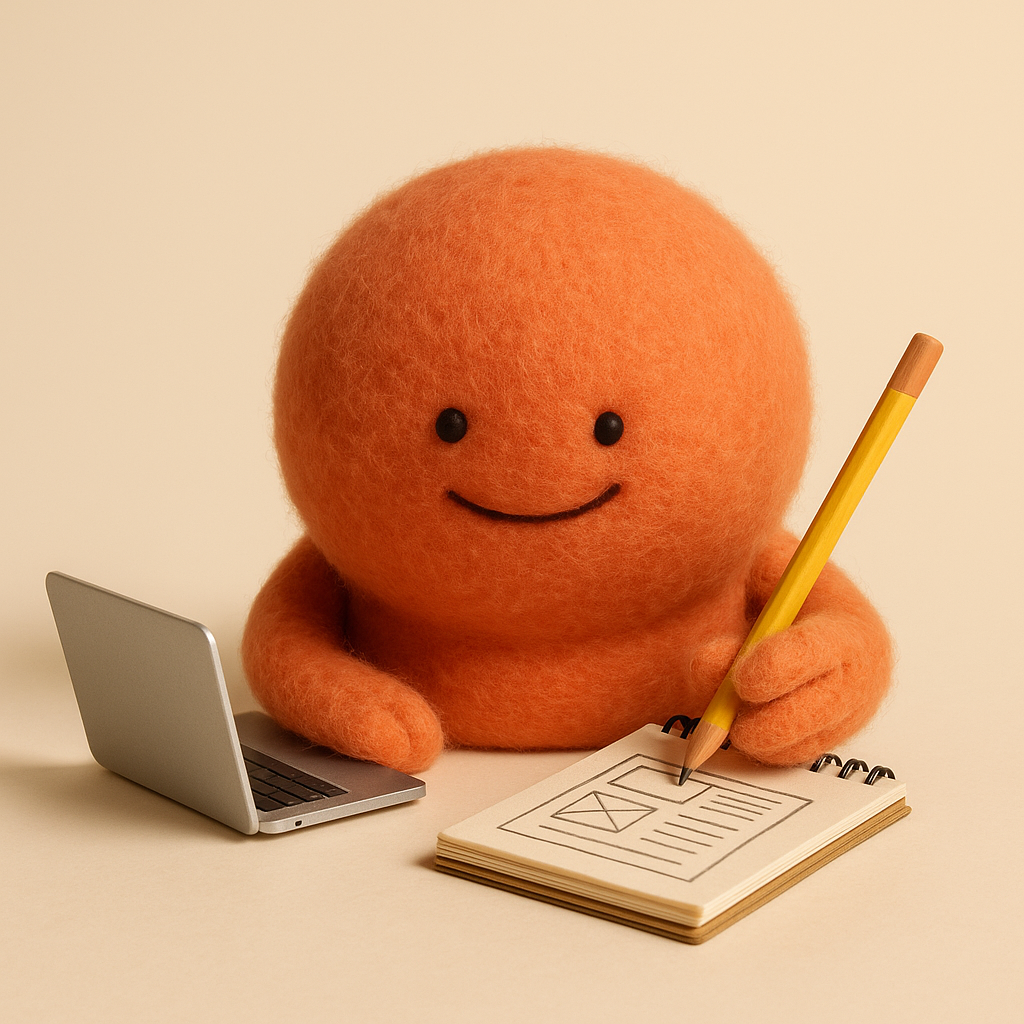
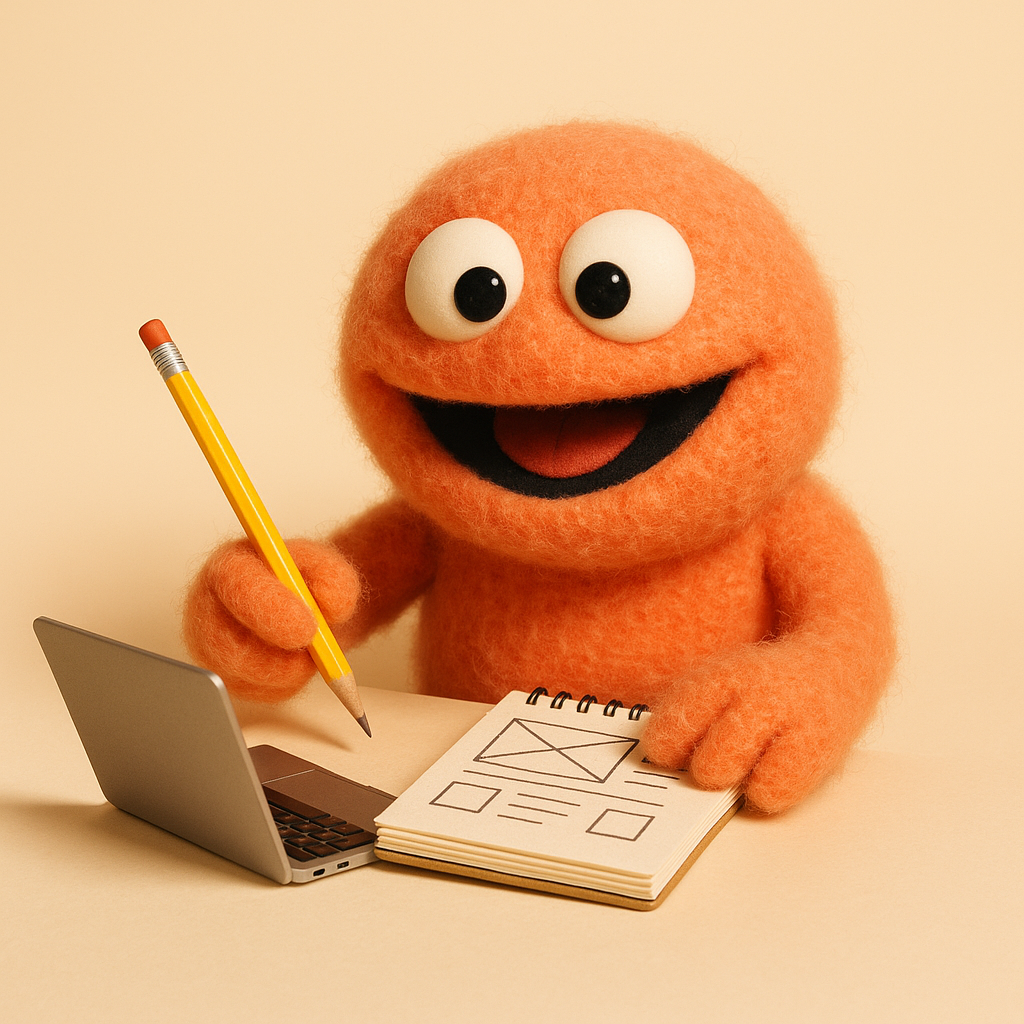
Hero: aspect-locked crop frame + even-lit cafe image
- Fix fullscreen "zoom jump": hero was fixed-height/free-width so object-fit:cover
  re-cropped as the viewport widened. Now aspect-ratio:20/9 (min 660 / max 900px)
  so the crop shape is constant at every width.
- Replace hero photo with hero-even-2: all four puppets evenly lit (no single
  spotlit figure), exactly one of each colour (no duplicate), one clean laptop.
- Refresh tile-designer / agent-pd assets referenced by the page.

diff --git a/styles.css b/styles.css
@@ -491,7 +491,7 @@ button:disabled, [aria-disabled="true"] { cursor: not-allowed; }
 
 /* ---- Ofir revisions (2026-08-03) ---------------------------------------- */
 /* text wordmark replaces logo image (nav + footer) */
-.nav__brand--text { font-weight: 700; color: var(--pl-fg); font-size: 2rem; letter-spacing: -0.03em; text-decoration: none; }
+.nav__brand--text { font-weight: 700; color: var(--pl-fg); font-size: 1.75rem; letter-spacing: -0.03em; text-decoration: none; }
 .footer__wordmark { font-weight: 700; color: var(--pl-fg); font-size: 1.35rem; letter-spacing: -0.03em; }
 
 /* icon on every accordion row in the unified Details section */
@@ -511,10 +511,11 @@ button:disabled, [aria-disabled="true"] { cursor: not-allowed; }
   .nav__book, .nav__student { width: 2.5rem; padding-inline: 0; gap: 0; }
 
   /* hero 3-point line -> a clean stacked BULLET LIST on mobile */
-  .hero__points { flex-direction: column; align-items: flex-start; gap: 0.5rem; }
-  .hero__points li { display: flex; align-items: baseline; gap: 0.55rem; }
-  .hero__points li::before,
-  .hero__points li:not(:first-child)::before { content: "•"; color: #c4b5fd; font-weight: 700; margin-inline-end: 0; }
+  /* .hero--scene prefix beats the base `.hero__points{align-items:center}` (specificity) */
+  .hero--scene .hero__points { flex-direction: column; align-items: flex-start; gap: 0.5rem; width: 100%; }
+  .hero--scene .hero__points li { display: flex; align-items: baseline; gap: 0.55rem; }
+  .hero--scene .hero__points li::before,
+  .hero--scene .hero__points li:not(:first-child)::before { content: "•"; color: #c4b5fd; font-weight: 700; margin-inline-end: 0; }
 
   /* agenda cards -> stacked (badge on top, then title, then description) */
   .phase { grid-template-columns: 1fr; gap: 0.75rem; }
@@ -591,9 +592,17 @@ body.modal-open { overflow: hidden; }
 /* DESKTOP: taller, and the scrim shifts to the reading side; title sits on your side,
    puppet faces stay clear. EN mirrors the image so faces swing to the far side. */
 @media (min-width: 860px) {
-  .hero--scene { min-height: 660px; }
-  [dir="rtl"] .hero--scene::after { background: linear-gradient(to left, rgb(18 12 8 / 0.70) 0%, rgb(18 12 8 / 0.34) 42%, rgb(18 12 8 / 0) 64%); }
-  [dir="ltr"] .hero--scene::after { background: linear-gradient(to right, rgb(18 12 8 / 0.70) 0%, rgb(18 12 8 / 0.34) 42%, rgb(18 12 8 / 0) 64%); }
+  /* Fixed crop FRAME (aspect-ratio), so object-fit:cover shows the same slice of the
+     photo at every window width -> no "sudden zoom" when the viewport widens/goes
+     fullscreen. Bounded so it never gets too short or too tall. */
+  .hero--scene { aspect-ratio: 20 / 9; min-height: 660px; max-height: 900px; }
+  /* two-layer scrim: darkens the BOTTOM (for the small text) + the reading side (for the title) */
+  [dir="rtl"] .hero--scene::after { background:
+    linear-gradient(to top, rgb(12 8 5 / 0.82) 0%, rgb(12 8 5 / 0.40) 26%, rgb(12 8 5 / 0) 50%),
+    linear-gradient(to left, rgb(14 10 6 / 0.70) 0%, rgb(14 10 6 / 0.32) 46%, rgb(14 10 6 / 0) 70%); }
+  [dir="ltr"] .hero--scene::after { background:
+    linear-gradient(to top, rgb(12 8 5 / 0.82) 0%, rgb(12 8 5 / 0.40) 26%, rgb(12 8 5 / 0) 50%),
+    linear-gradient(to right, rgb(14 10 6 / 0.70) 0%, rgb(14 10 6 / 0.32) 46%, rgb(14 10 6 / 0) 70%); }
   .hero__inner { display: flex; flex-direction: column; justify-content: center; min-height: 660px; max-width: 42rem; padding-block: 2rem; }
 }
 

diff --git a/app.js b/app.js
@@ -294,7 +294,7 @@ function render(lang) {
     <div class="hero__media">
       <picture>
         <source media="(max-width: 760px)" srcset="assets/hero-mobile-2.png?v=3" />
-        <img src="assets/hero-v2-3.png?v=3" alt="" />
+        <img src="assets/hero-even-2.png?v=7" alt="" />
       </picture>
     </div>
   </section>
@@ -332,7 +332,7 @@ function render(lang) {
     <div class="grid grid--3" style="margin-top:2rem">
       ${t.who_tiles.map((x, i) => `
         <div class="tilecard reveal">
-          <div class="tilecard__illo"><img src="assets/${["tile-designer", "tile-builder", "tile-nextai"][i]}.png?v=2" alt="" /></div>
+          <div class="tilecard__illo"><img src="assets/${["tile-designer", "tile-builder", "tile-nextai"][i]}.png?v=3" alt="" /></div>
           <div class="tilecard__body"><h3>${x.t}</h3><p>${x.b}</p></div>
         </div>`).join("")}
     </div>
@@ -399,7 +399,7 @@ function render(lang) {
         <div class="team__agents">
           ${t.agents.map((a) => `
             <div class="agentcard">
-              <div class="agentcard__illo"><img src="assets/${a.img}.png?v=2" alt="" /></div>
+              <div class="agentcard__illo"><img src="assets/${a.img}.png?v=3" alt="" /></div>
               <div class="agentcard__body">
                 <div class="agentcard__role">${a.role}</div>
                 <p>${a.b}</p>

diff --git a/scripts/gen_hero_even.py b/scripts/gen_hero_even.py
@@ -1,0 +1,89 @@
+#!/usr/bin/env python3
+"""Hero EVEN — fixes accumulated from Ofir's review of prior heroes:
+ - EVEN flat warm lighting on ALL FOUR puppets (no single spotlit "hero" figure)
+ - EXACTLY four puppets, ONE of each colour (prior gen duplicated the yellow one)
+ - ONE clean single-screen laptop facing the man (prior gen made a two-faced screen)
+ - Composed for a WIDE 20:9 letterbox crop: crew spread across the LEFT + CENTER,
+   laptop kept LOW and LEFT-OF-CENTER so the title never slices it, the man's back
+   on the FAR RIGHT giving the right third real visual MASS (not empty) behind the
+   right-aligned Hebrew title.
+Usage: python3 scripts/gen_hero_even.py [names...]
+"""
+import base64, json, re, sys, urllib.request
+from pathlib import Path
+
+KEY = re.search(r"sk-proj-[A-Za-z0-9_\-]{20,}",
+                Path("/Users/admin/PersonAi/api_key.txt").read_text()).group(0)
+OUT = Path("/Users/admin/productlab-site/assets")
+
+CAST = (
+    "EXACTLY FOUR original fuzzy felt PUPPET creatures - NO MORE THAN FOUR, and each "
+    "colour appears EXACTLY ONCE (do NOT duplicate any character, there must be only ONE "
+    "yellow, only ONE orange, only ONE blue, only ONE purple): "
+    "(1) ONE tall teal-blue one with a long soft snout and calm half-lidded eyes, cool and "
+    "relaxed; (2) ONE round coral-orange one, normal well-proportioned body, warm friendly "
+    "smile; (3) ONE small mustard-yellow one with a little tuft of hair and bright eyes, "
+    "the cheerful little one; (4) ONE fluffy lavender-purple one with droopy friendly eyes, "
+    "easy-going. Real hand-crafted felt puppets with real fur and texture. NONE of them has "
+    "ears - smooth rounded heads only."
+)
+
+# EVEN lighting is the whole point: soft, flat, WRAPPING warm light so every character
+# is lit the SAME, no spotlight, no single figure brighter or more in-focus than the rest.
+STYLE = (
+    "A warm, cozy, PHOTOREALISTIC candid documentary PHOTOGRAPH inside a real quiet softly "
+    "lit coffee shop. CRITICAL LIGHTING: soft, FLAT, EVEN, wrapping warm light across the "
+    "whole group so EVERY character is lit equally and equally in focus - NO spotlight, NO "
+    "single figure brighter, sharper or more prominent than the others, all four puppets "
+    "read as one balanced team. Moderate depth of field so all four stay reasonably sharp. "
+    "Warm window light, gentle bokeh only in the far background, everything physically real "
+    "and tactile. Genuine, candid, relaxed, cool. No text."
+)
+
+MAN = (
+    "a man in his 30s in a casual violet t-shirt with short dark hair, seen FROM BEHIND on "
+    "the FAR RIGHT edge of the frame, only his back and shoulder and a thin sliver of "
+    "profile showing, face hidden - he fills the right side with a calm dark mass"
+)
+
+LAPTOP = (
+    "ONE single ordinary open laptop on the table, positioned LOW and just LEFT of center, "
+    "fully visible and NOT cut off, turned so its screen faces the man - we see the BACK/"
+    "outer lid of the laptop, a plain closed dark lid, absolutely NO second screen, NO "
+    "double screen, NO interface, NO UI, NO text on it"
+)
+
+BASE = (
+    f"A wide horizontal cafe scene. {MAN}. On the LEFT and CENTER of the frame, gathered "
+    f"around the left end of a small round wooden cafe table facing the camera, sit {CAST}. "
+    "The four puppets are spread in a relaxed row across the left and center - one sipping "
+    "from a coffee mug, one resting its chin, one leaning back - evenly spaced, none "
+    f"crowding the others. {LAPTOP}. A few coffee mugs on the table. The composition is "
+    "balanced left-to-right: puppets fill the left and center, the man's back anchors the "
+    "right, and the upper area stays calm for a headline. " + STYLE
+)
+
+VARIANTS = {
+    "hero-even-1": BASE,
+    "hero-even-2": BASE + " Warm exposed-brick cafe wall, soft window glow, a plant blurred in the far background.",
+    "hero-even-3": BASE + " Big soft daylight window behind them, airy, cream and amber tones, gentle and inviting.",
+}
+
+def gen(name, prompt):
+    body = json.dumps({"model": "gpt-image-1", "prompt": prompt, "size": "1536x1024",
+                       "quality": "high", "background": "opaque", "n": 1}).encode()
+    req = urllib.request.Request(
+        "https://api.openai.com/v1/images/generations", data=body,
+        headers={"Authorization": f"Bearer {KEY}", "Content-Type": "application/json"})
+    with urllib.request.urlopen(req, timeout=300) as r:
+        d = json.load(r)
+    (OUT / f"{name}.png").write_bytes(base64.b64decode(d["data"][0]["b64_json"]))
+    print("saved", name)
+
+only = set(sys.argv[1:])
+for name, prompt in VARIANTS.items():
+    if only and name not in only:
+        continue
+    try: gen(name, prompt)
+    except Exception as e: print("FAIL", name, str(e)[:160])
+print("done")
